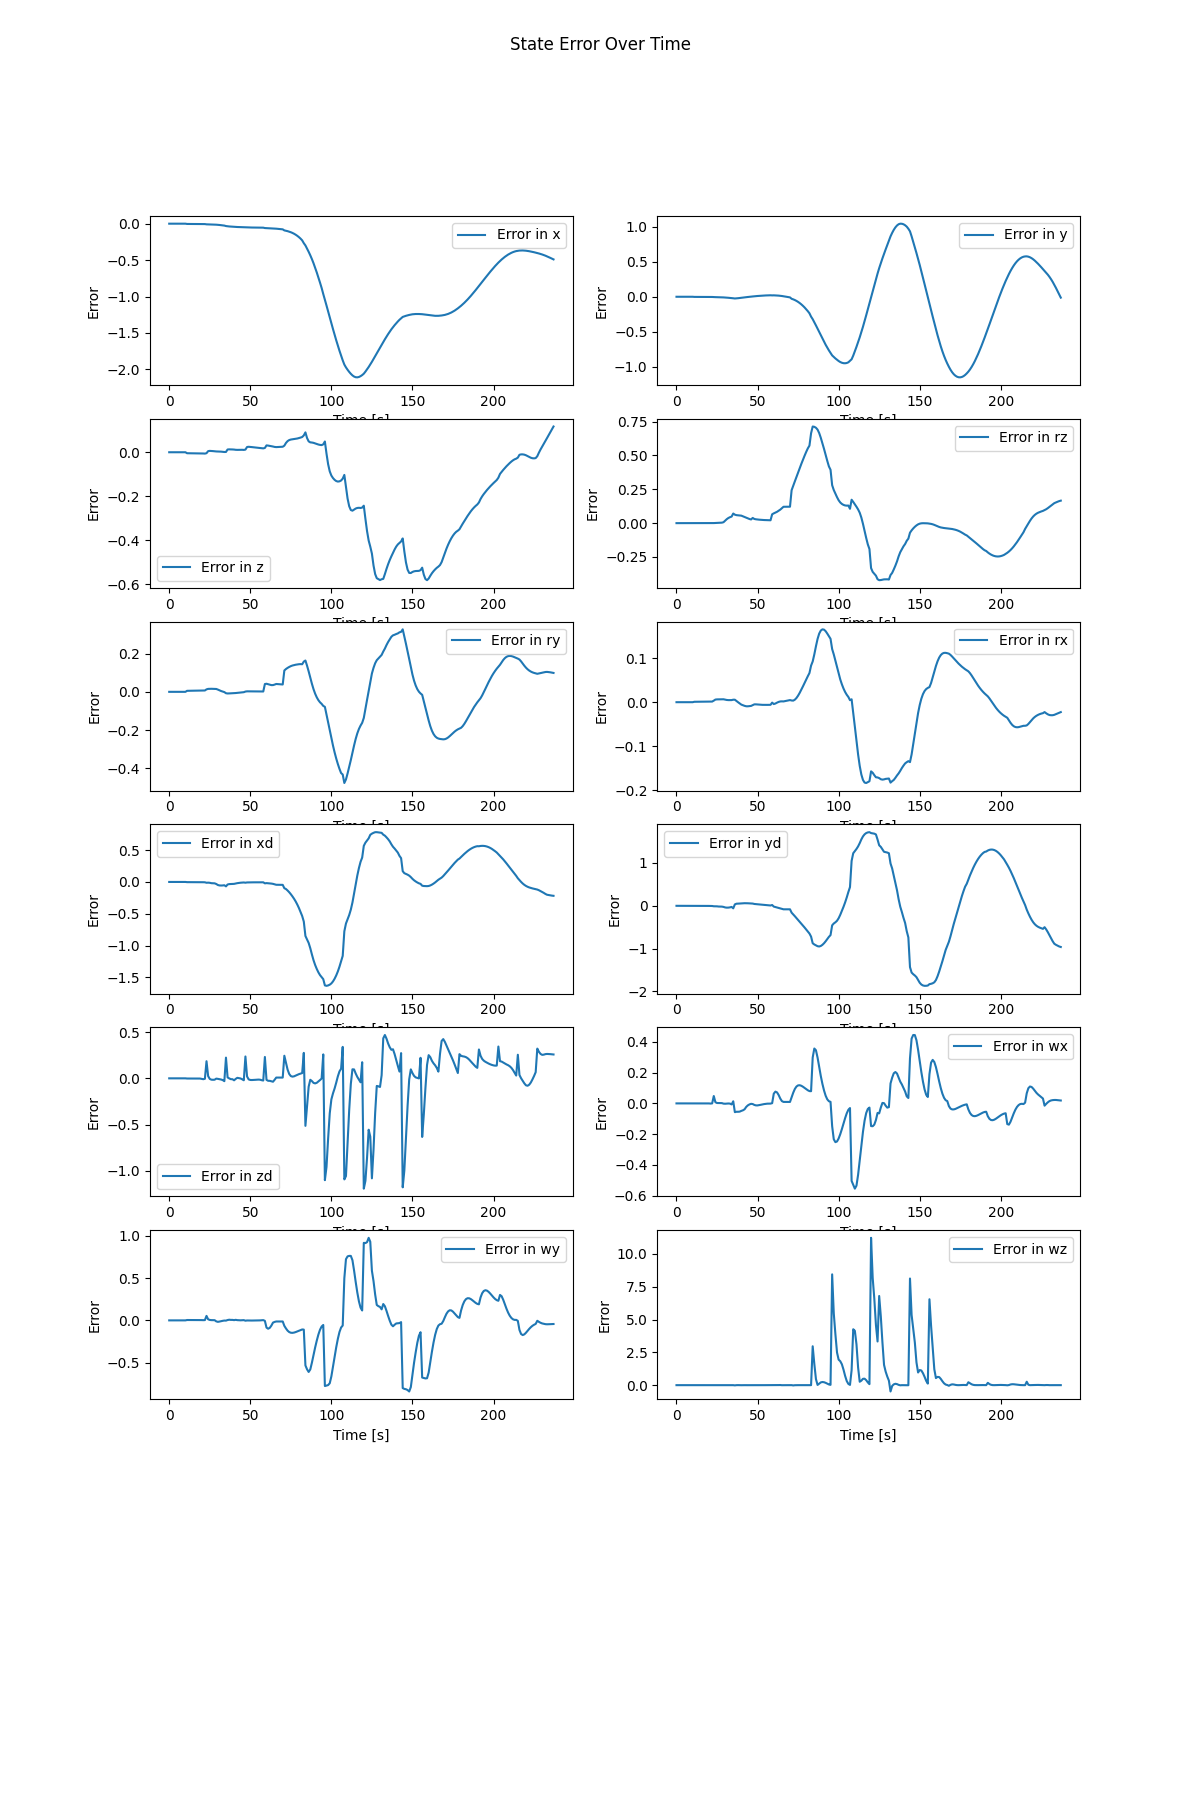
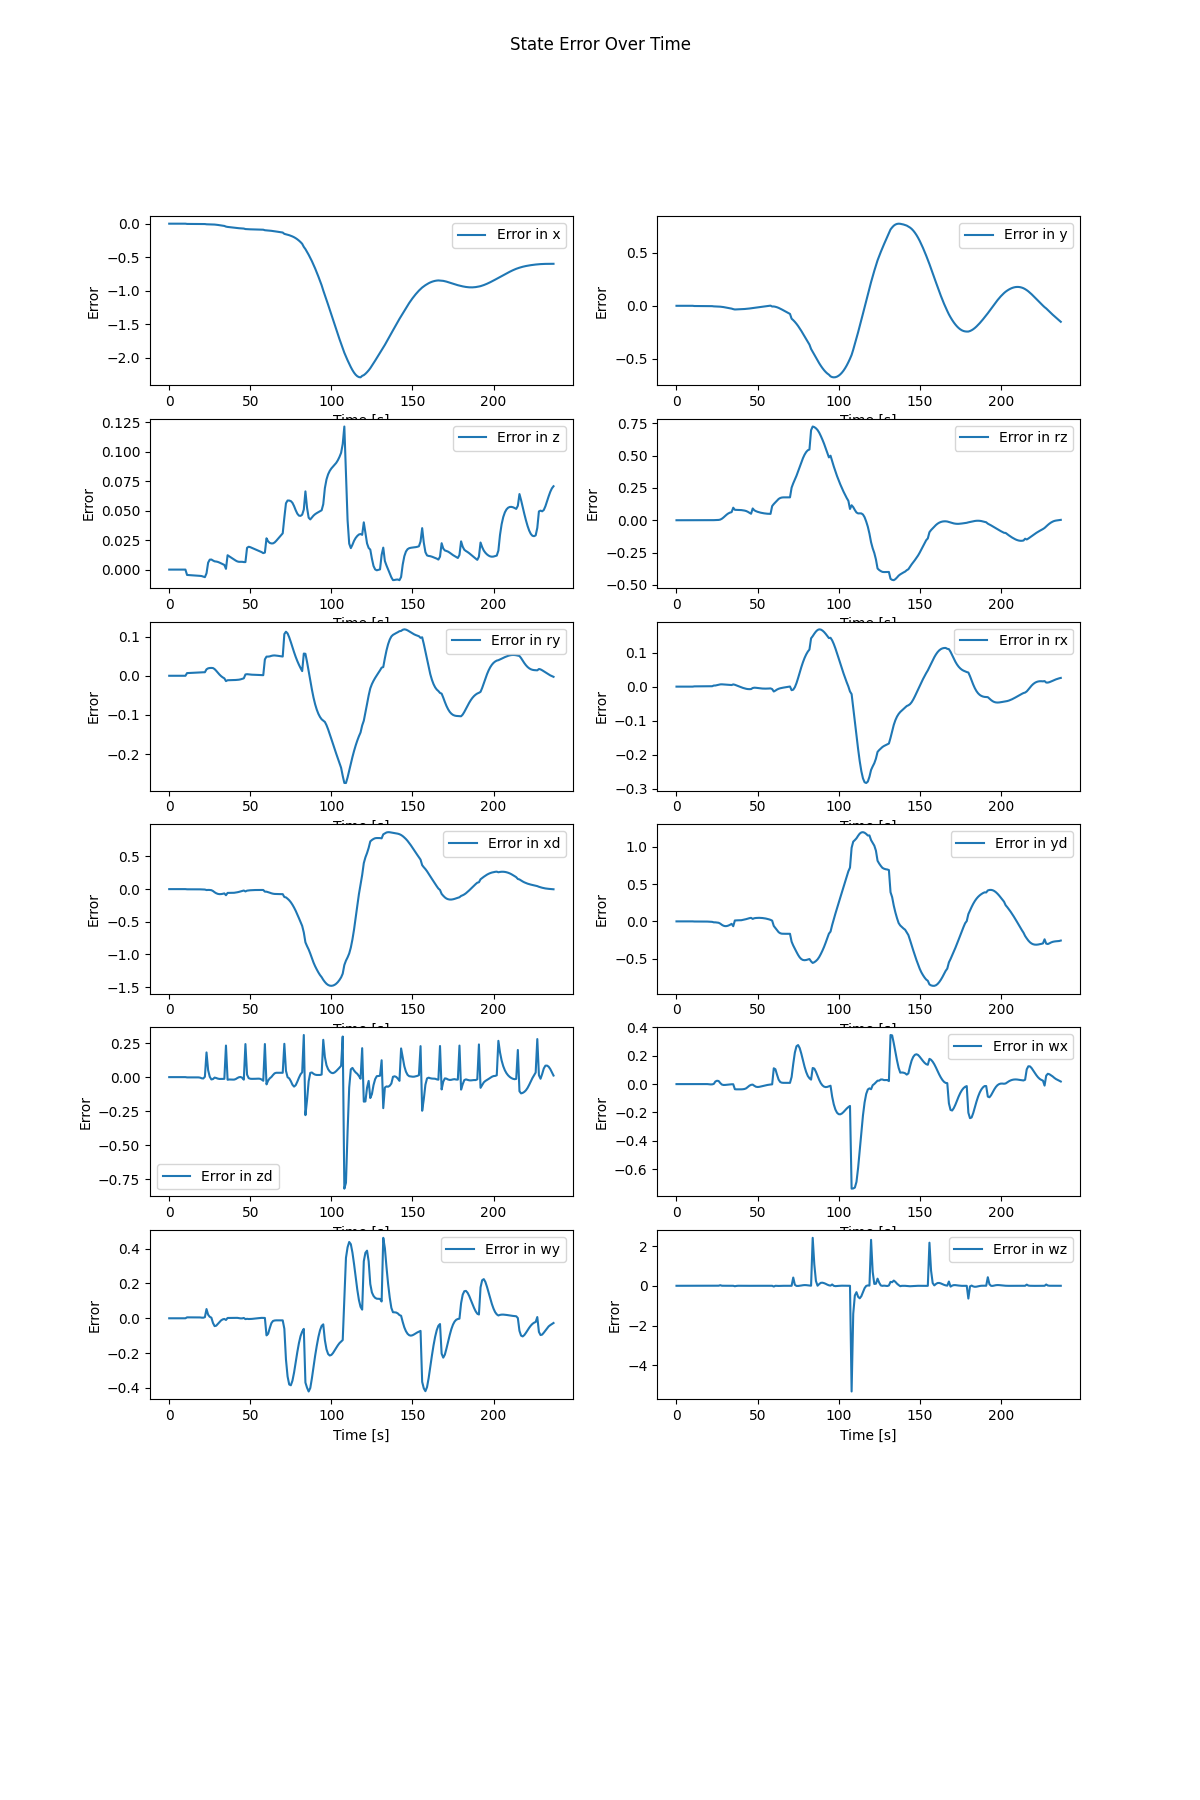
fixed main pipeline for full observability; framework exists for measurement model; need to create measurement model

diff --git a/src/main_228.py b/src/main_228.py
@@ -246,7 +246,7 @@ if __name__ == "__main__":
         x_start=state_initial,
         x_goal=state_goal,
         sdf=sdfs,
-        verbose=True,
+        verbose=True
     )
 
     # Setup SCP iterations manually until exit condition is implemented
@@ -492,7 +492,7 @@ if __name__ == "__main__":
             break
 
         # Make new observations
-        agent.observe(state)
+        agent.observe(state, action)
 
         # Update the pbar with the current state and action
         p_string = ", ".join([f"{x:<5.1f}" for x in state[0:3]])

diff --git a/src/agent.py b/src/agent.py
@@ -94,8 +94,7 @@ class Agent:
             obs = self.filter.observe(state)
             belief = self.filter.filter(action,obs)
             self.belief_history_tracker.append(belief)
-
-        return belief
+            return belief
 
     def reset(self, state_initial, state_goal):
         """
